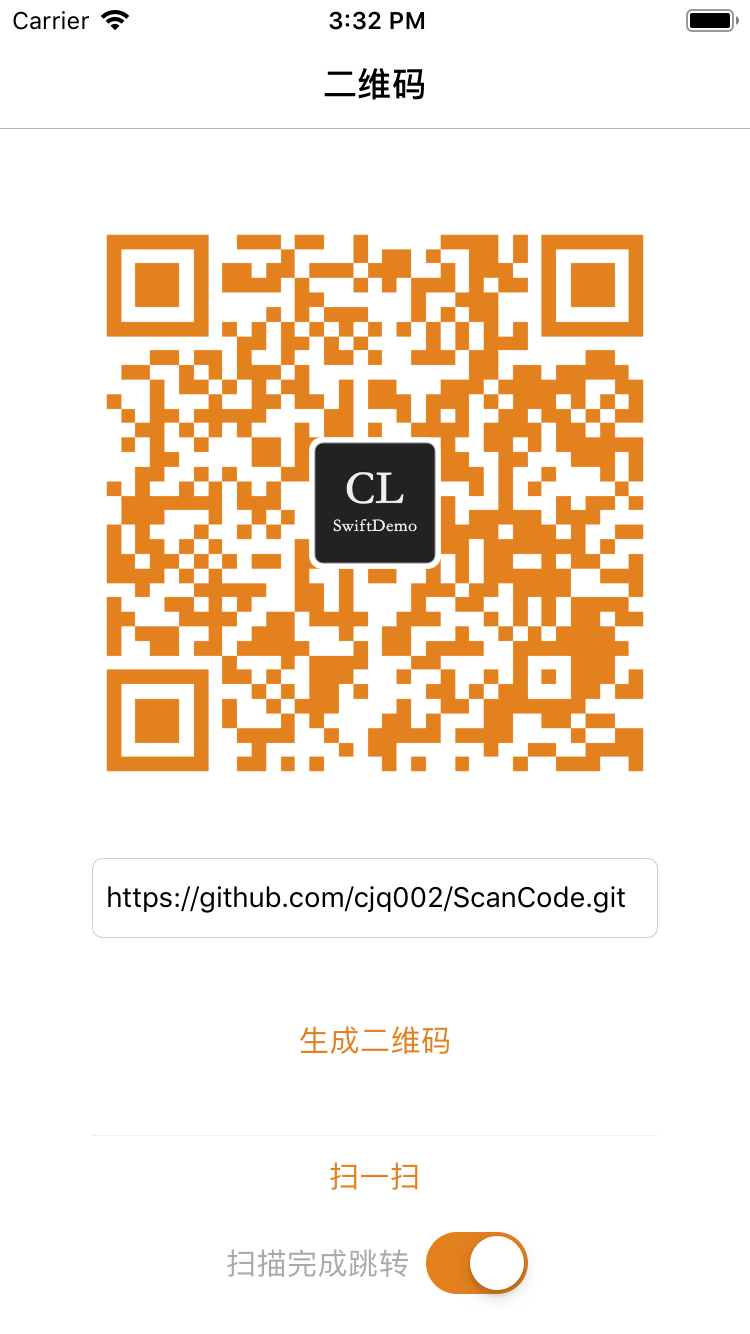
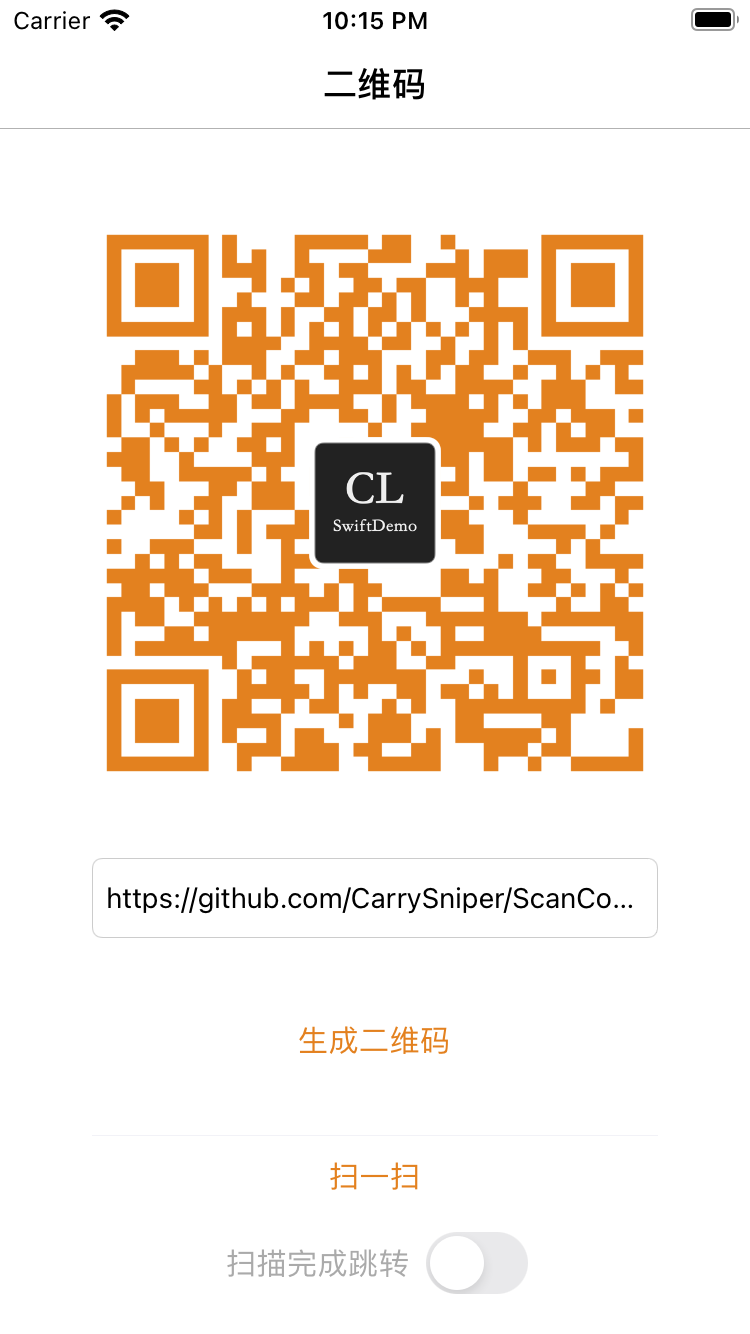
更新地址链接

diff --git a/ScanCodeDemo/ScanCodeDemo/ViewController.m b/ScanCodeDemo/ScanCodeDemo/ViewController.m
@@ -28,7 +28,7 @@
 	// 导航栏不透明
 	self.navigationController.navigationBar.translucent = NO;
 	
-	NSString *text = @"https://github.com/cjq002/ScanCode.git";
+	NSString *text = @"https://github.com/CarrySniper/ScanCode.git";
 	UIImage *logo = [UIImage imageNamed:@"avatar"];
 	self.imageView.image = [UIImage generateQRCodeWithText:text logo:logo tintColor:[UIColor colorWithRed:227.0/255 green:129.0/255 blue:31.0/255 alpha:1.0]];
 	
